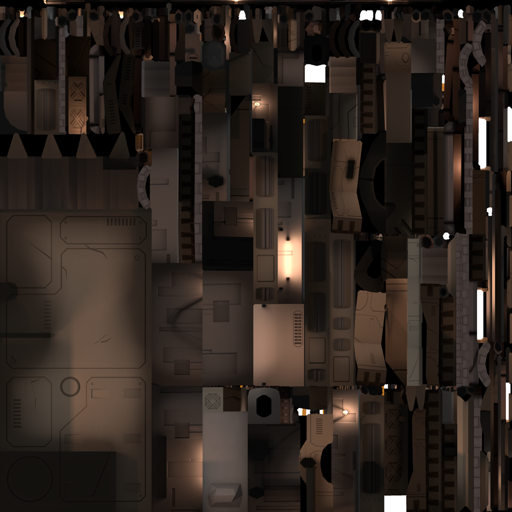
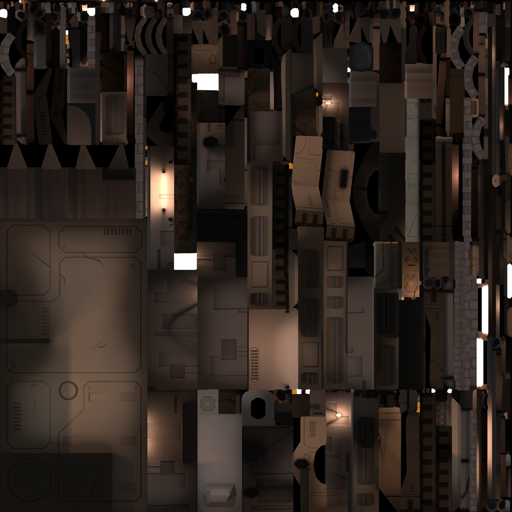
New interior bake and skybox.

diff --git a/src/js/loaders/ModelLoader.js b/src/js/loaders/ModelLoader.js
@@ -22,16 +22,25 @@ class ModelLoader {
                     }
                     if(!textureSize) textureSize = 2;
                     const mesh = gltf.scene.children[0];
-                    // mesh.material.metalness = 0;
-                    mesh.material.dispose();
-                    mesh.material = new THREE.MeshLambertMaterial();
+                    mesh.material.metalness = 0;
+                    if(key === 'interior') {
+                        mesh.material.dispose();
+                        mesh.material = new THREE.MeshLambertMaterial();
+                    }
                     mesh.material.map = this.textureLoader.load(
                         data.path +
                         data.models[key].textureMapName +
                         '_' + data.textureSizes[textureSize] +
                         '.' + data.ext,
-                        (texture) => { texture.flipY = false; }
+                        (texture) => {
+                            texture.flipY = false;
+                        }
                     );
+                    if(key === 'exterior') {
+                        setTimeout(() => {
+                            mesh.material.envMap = this.sceneState.curSkybox.texture;
+                        }, 2500);
+                    }
                     if(copy && data.models[key].textureNormalMapName) {
                         mesh.material.normalMap = this.textureLoader.load(
                             data.path +

diff --git a/src/js/loaders/LevelLoader.js b/src/js/loaders/LevelLoader.js
@@ -25,6 +25,7 @@ class LevelLoader {
         new LevelsData(this.sceneState).loadLevelsData(levelId, (data) => {
             this.loadingData = false;
             this._loadAssets(data);
+            this._setSkyBox(data);
         });
     }
 
@@ -79,6 +80,28 @@ class LevelLoader {
         if(totalCount === nowLoadedCount) {
             console.log('ALL ASSETS LOADED!');
         }
+    }
+
+    _setSkyBox(data) {
+        data;
+        const urlParams = new URLSearchParams(window.location.search);
+        let skyboxSize = urlParams.get('sb');
+        if(skyboxSize !== '4096') skyboxSize = '2048';
+        const scene = this.sceneState.scenes[this.sceneState.curScene];
+        scene.background = new THREE.CubeTextureLoader()
+            .setPath('/models/skyboxes/')
+            .load([
+                'purplerain-right_'+skyboxSize+'.png', // right
+                'purplerain-left_'+skyboxSize+'.png', // left
+                'purplerain-top_'+skyboxSize+'.png', // top
+                'purplerain-bottom_'+skyboxSize+'.png', // bottom
+                'purplerain-front_'+skyboxSize+'.png', // front
+                'purplerain-back_'+skyboxSize+'.png', // back
+            ], (cubeMap) => {
+                const blur = new THREE.PMREMGenerator(this.sceneState.renderer);
+                const ibl = blur.fromCubemap(cubeMap);
+                this.sceneState.curSkybox = ibl;
+            });
     }
 }
 
